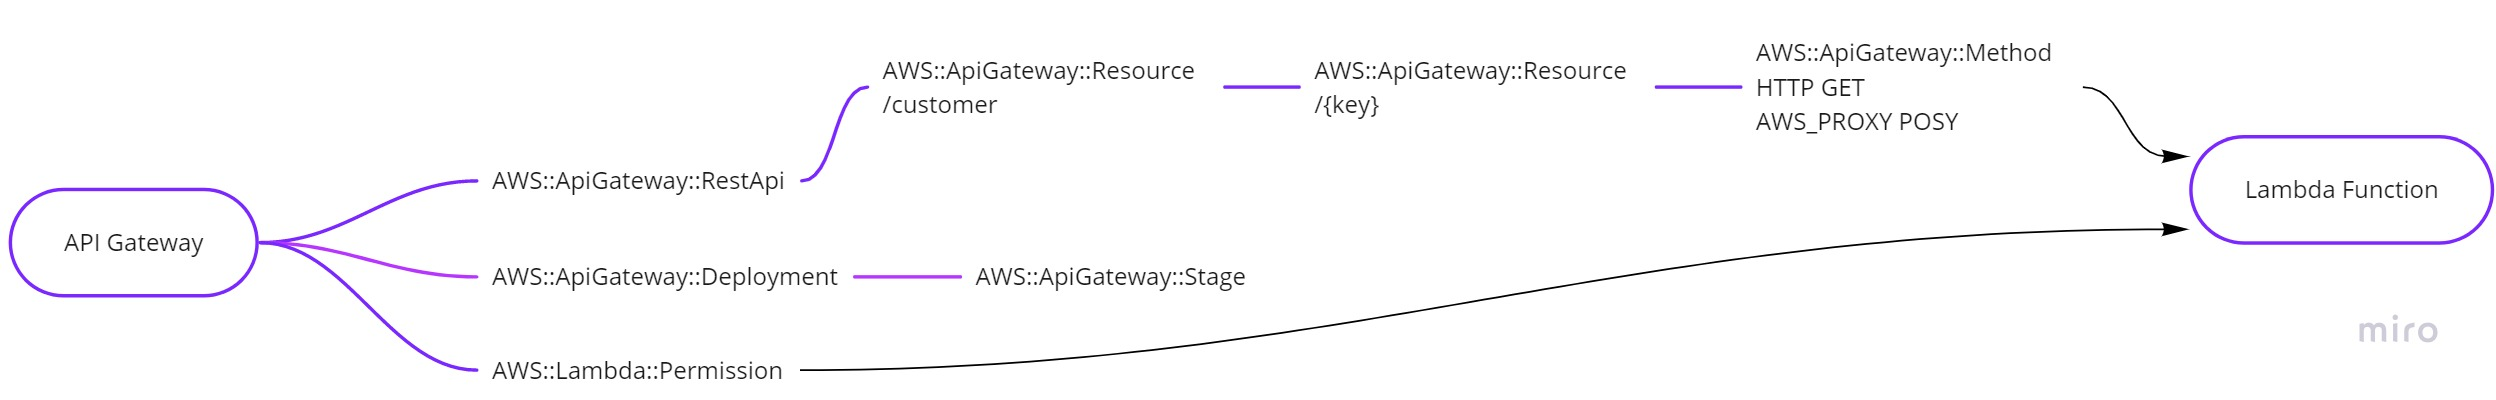
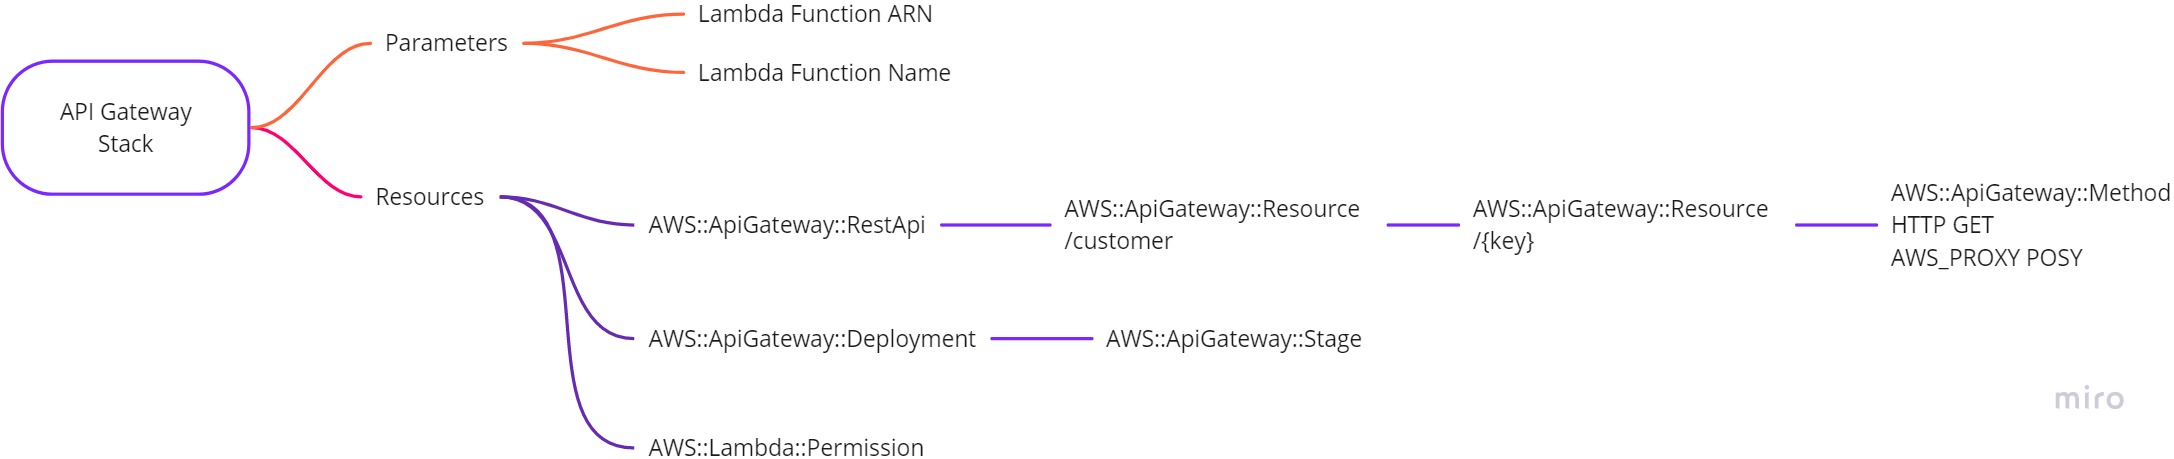
Add documentation about Lambda Function.

diff --git a/README.md b/README.md
@@ -72,7 +72,7 @@ In this repository you can find master stack (root) and API Gateway and Lambda f
 ### AWS API Gateway
 
 It is serverless service and is integration middleware between clients and AWS services. API Gateway knows the location of the end-points, can control the access to the 
-services using JWT with oauth2.0, define limits like TPS and monitoring the requests to services. 
+services using JWT with oauth2.0, define limits like TPS, load balancing and monitoring the requests to services. 
 
 ![Screenshot](https://d1.awsstatic.com/serverless/New-API-GW-Diagram.c9fc9835d2a9aa00ef90d0ddc4c6402a2536de0d.png)
 
@@ -82,10 +82,40 @@ Our API Gateway stack template has the code to create REST API and integrate wit
 
 ![Screenshot](https://github.com/JoseLuisSR/springboot-aws-serverless/blob/master/doc/img/api-gateway-mind-map.jpg?raw=true)
 
+Each node of the mind map is [AWS resource](https://docs.aws.amazon.com/AWSCloudFormation/latest/UserGuide/aws-template-resource-type-ref.html) and each AWS service is a set of AWS resources, for AWS API Gateway 
+that expose REST API and integrate with Lambda Function we need at less the below resources:
+
+* [AWS::ApiGateway::RestApi](https://docs.aws.amazon.com/AWSCloudFormation/latest/UserGuide/aws-resource-apigateway-restapi.html)
+* [AWS::ApiGateway::Resource](https://docs.aws.amazon.com/AWSCloudFormation/latest/UserGuide/aws-resource-apigateway-resource.html)
+* [AWS::ApiGateway::Method](https://docs.aws.amazon.com/AWSCloudFormation/latest/UserGuide/aws-resource-apigateway-method.html)
+* [AWS::ApiGateway::Deployment](https://docs.aws.amazon.com/AWSCloudFormation/latest/UserGuide/aws-resource-apigateway-deployment.html)
+* [AWS::ApiGateway::Stage](https://docs.aws.amazon.com/AWSCloudFormation/latest/UserGuide/aws-resource-apigateway-stage.html)
+* [AWS::Lambda::Permission](https://docs.aws.amazon.com/lambda/latest/dg/lambda-permissions.html)   
+
+One of the clues to know which are the AWS resources necessary to create one AWS service through Cloudformation (IaC) is first create the service from AWS Web Console and play attention to each screen and data 
+needed in that process, most of the times you can find a relation between the screens and AWS Resources and the data with the properties of each resource.
+
+One of the preconditions to create AWS API Gateway is created AWS Lambda function first, so we see a precedence between theses services. You can find the precedence in master stack template (master.yaml) and 
+also some of the resources of AWS API Gateway need the ARN of Lambda Function to set up. Check API Gateway stack template (apigateway.yaml) to see all the details.
+
 ### AWS Lambda function
 
+Is a set of infrastructure and platforms dynamic services to deploy and run software component with the IT resources needed, also guarantee the availability and scalability when high of request is incoming to the component.
 
-This is a project to build Spring Boot application and deploy it on AWS Lambda function  using 
-Infrastructure as Code (IaC) with CloudFormation.
+The infrastructure, resources provisioning, availability and scalability are responsibility of AWS that analyze the software component behavior about machine resources, execution time, throughput and more to set up the 
+resources that the component needs to process incoming requests in along the day.
+
+Lambda function stack template has the code to deploy and execute Spring Boot application with Java 8. Below you can find a mind map with the parameters and resources needed to create Lambda Function with Cloudformation.
+
+![Screenshot](https://github.com/JoseLuisSR/springboot-aws-serverless/blob/master/doc/img/lambda-function-mind-map.jpg?raw=true)
+
+Below are the AWS resources needed to create AWS Lambda Function and set up Spring Boot application:
+
+* [AWS::Lambda::Function](https://docs.aws.amazon.com/AWSCloudFormation/latest/UserGuide/aws-resource-lambda-function.html)
+* [AWS::IAM::Role](https://docs.aws.amazon.com/AWSCloudFormation/latest/UserGuide/aws-resource-iam-role.html)
+* [AWS::Logs::LogGroup](https://docs.aws.amazon.com/AWSCloudFormation/latest/UserGuide/aws-resource-logs-loggroup.html)
+* [AWS::IAM::ManagedPolicy](https://docs.aws.amazon.com/AWSCloudFormation/latest/UserGuide/aws-resource-iam-managedpolicy.html) 
+
+
 
 Working in progress .....
